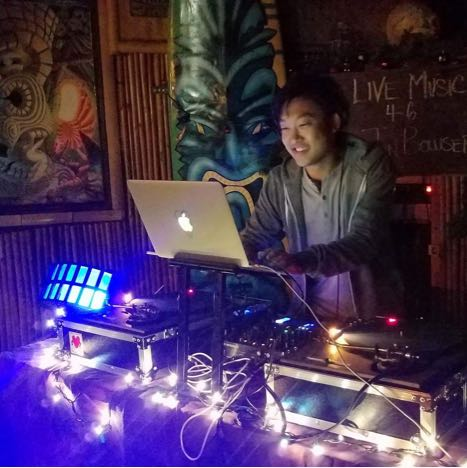
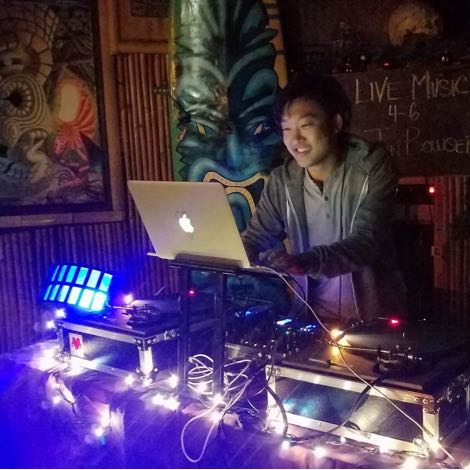
Polish
• optimized images for grid
• polish

diff --git a/_pages/slalom.html b/_pages/slalom.html
@@ -7,7 +7,7 @@ namespace: slalom
 
 <section class="case-study slalom">
     <!-- Intro -->
-    <div class="intro container">
+    <div id="intro" class="intro container">
         <div class="intro-blurb">
             <h1>Slalom Sales Enablement Tool</h1>
             <h4>October–December 2018</h4>
@@ -309,7 +309,7 @@ namespace: slalom
                 </div>
                 <div class="img-description">
                     <p class="img-title">Ability to present material casually on all devices</p>
-                    <h5 class="title-problem">The Problem</h5>
+                    <h5 class="title-problem">Background</h5>
                     <p>Imagine you are having an interesting conversation about solving a problem with someone at work
                         in
                         the parking lot. They happen to be a sales executive and next thing you know they are trying to
@@ -344,7 +344,7 @@ namespace: slalom
                 </div>
                 <div class="img-description">
                     <p class="img-title">Structure content and create navigation methods to dynamically tell stories</p>
-                    <h5 class="title-problem">The Problem</h5>
+                    <h5 class="title-problem">Background</h5>
                     <p>Sales executives had difficulty showcasing all the projects Slalom had completed for Google from
                         a
                         holistic standpoint. There was no formula to highlighting past work we’ve done with clients.
@@ -369,7 +369,7 @@ namespace: slalom
                 </div>
                 <div class="img-description">
                     <p class="img-title">Designing the core features to scale</p>
-                    <h5 class="title-problem">The Problem</h5>
+                    <h5 class="title-problem">Background</h5>
                     <p>
                         Google is just one of many clients. With the success of this project, there was a request to
                         potentially scale this tool to many users
@@ -423,7 +423,10 @@ namespace: slalom
                         into creating a scalable version of this tool. In the future, Slalom will be able to spin up
                         tailored web experiences for any one of our clients.
                     </p>
-                    <p>Thakns for reading! ✌</p>
+                    <p>Thanks for reading! ✌</p>
+                    <br>
+                    <!-- <a class="smooth-scroll" href="#intro">Back to project intro</a> <br> -->
+                    <a href="../">Back to home</a>
                 </div>
                 <span class="invisible"></span>
             </div>

diff --git a/_sass/_about.scss b/_sass/_about.scss
@@ -21,10 +21,9 @@ section.about {
 
 	a {
 		position: relative;
-		// display: flex;
 		transition: .33s ease all;
 		text-decoration: none;
-		padding: 0 2px 5px;
+		padding: 0 0 5px;
 	}
 
 	// Intro Section
@@ -49,25 +48,59 @@ section.about {
 
 		img {
 			width: 100%;
-			max-width: 470px;
+			// max-width: 470px;
 			margin: 0 auto;
 			grid-area: span 1 / span 1;
+		}
+
+		div.about-img {
+			position: relative;
+
+			div.overlay {
+				// Hide overlay
+				opacity: 0;
+				position: absolute;
+				top: 0;
+				bottom: 0;
+				left: 0;
+				right: 0;
+				height: 98.8%;
+				width: 100%;
+				transition: .33s ease;
+				background-color: rgba(#008CBA, .8);
+
+				div.about-caption {
+					color: white;
+					font-size: 20px;
+					position: absolute;
+					top: 50%;
+					left: 50%;
+					-webkit-transform: translate(-50%, -50%);
+					-ms-transform: translate(-50%, -50%);
+					transform: translate(-50%, -50%);
+					text-align: center;
+				}
+			}
+
+			div.overlay:hover {
+				// Show overlay
+				opacity: 1;
+			}
 		}
 	}
 
 }
 
-@media screen and (min-width: 600px){
+@media screen and (min-width: 500px){
 	section.about {
 		// Photo Grid
 		div.photo-grid {
-			grid-gap: 5px 10px;
+			grid-gap: 5px;
 			grid-template-columns: repeat(3, 1fr);
 			grid-template-rows: repeat(4, 1fr);
 
 			img {
 				width: 100%;
-				max-width: 470px;
 				margin: 0 auto;
 			}
 		}
@@ -81,28 +114,13 @@ section.about {
 		div.intro {
 			margin: 180px 0 180px;
 		}
-
-		div.work {
-			div.work-title {
-				h1 {
-					font-size: 24px;
-					margin-bottom: 15px;
-				}
-
-				a {
-					font-size: 16px;
-				}
-			}
-		}
 	}
 }
 
 @media screen and (min-width: 1024px) {
 	section.about {
-		div.work {
-			div.work-slab {
-				display: flex;
-			}
+		div.photo-grid {
+			grid-gap: 10px;
 		}
 	}
 }

diff --git a/index.html b/index.html
@@ -9,7 +9,7 @@ namespace: homepage
         <div class="intro">
             <div class="blurb">
                 <p>Yo! 👋</p>
-                <p>I’m Antonio, a <span class="underline orange">designer and developer</span> exploring the intersection between art and technology, on a mission to <span class="underline blue">humanize the digital world.</span></p>
+                <p>I’m Antonio. I'm a <span class="underline orange">designer and developer</span> exploring the intersection between art and technology, on a mission to <span class="underline blue">humanize the digital world.</span></p>
             </div>
         </div>
         <div class="work">
@@ -25,7 +25,7 @@ namespace: homepage
                 </div>
             </div>
             <div class="work-slab">
-                <div class="work-img">
+                <div class="work-img coming-soon">
                     <img src="/assets/imgs/work/device-xilinx-boards.png" alt="">
                 </div>
                 <div class="work-title">
@@ -34,7 +34,7 @@ namespace: homepage
                 </div>
             </div>
             <div class="work-slab">
-                <div class="work-img">
+                <div class="work-img coming-soon">
                     <img src="/assets/imgs/work/device-xilinx-training.png" alt="">
                 </div>
                 <div class="work-title">
@@ -43,7 +43,7 @@ namespace: homepage
                 </div>
             </div>
             <div class="work-slab">
-                <div class="work-img">
+                <div class="work-img coming-soon">
                     <img src="/assets/imgs/work/device-activision.png" alt="">
                 </div>
                 <div class="work-title">

diff --git a/_pages/about.html b/_pages/about.html
@@ -15,12 +15,27 @@ namespace: about
                 I studied computer science with an emphasis towards game design and I'm currently working at <a class="underline-blue" href="https://www.slalombuild.com/">Slalom</a> helping build digital experiences.
             </p>
             <p>
-                I love interactive experiences, storytelling, skateboarding, music, video games, teaching, learning, cooking and watching the sunset.
+                I love 
+                <span class="underline blue">interactive experiences</span>, 
+                <span class="underline ">storytelling</span>, 
+                <span class="underline ">skateboarding</span>, 
+                <span class="underline ">music</span>, 
+                <span class="underline ">video games</span>, 
+                <span class="underline ">learning</span>, 
+                <span class="underline ">teaching</span>, 
+                <span class="underline ">cooking</span>, and
+                <span class="underline orange">watching the sunset</span>.
             </p>
             <p>See you around! ✌</p>
         </div>
     </div>
     <div class="photo-grid">
+        <!-- <div class="about-img">
+            <img src="/assets/imgs/about/tampalais.jpg" alt="">
+            <div class="overlay">
+                <div class="about-caption">Mount Tamalpais</div>
+            </div>
+        </div> -->
         <img src="/assets/imgs/about/tampalais.jpg" alt="">
         <img src="/assets/imgs/about/rock-climbing.jpg" alt="">
         <img src="/assets/imgs/about/portrait.jpg" alt="">

diff --git a/_sass/_home.scss b/_sass/_home.scss
@@ -31,26 +31,6 @@ section.homepage {
 		max-width: 125px;
 	}
 
-	// Underline effect
-	.underline {
-		background-repeat: no-repeat;
-		background-size: 105% 15%;
-		background-position: 0 105%;
-		transition: background-size 0.25s ease-in;
-
-		&:hover {
-			background-size: 100% 40%;
-		}
-	}
-
-	.orange {
-		background-image: linear-gradient(120deg, #FFDEA8 0%, #FFDEA8 100%);
-	}
-
-	.blue {
-		background-image: linear-gradient(120deg, #CFE5FF 0%, #CFE5FF 100%);
-	}
-
 	// Intro Section
 	div.intro {
 		margin: 120px 0 120px;
@@ -68,6 +48,11 @@ section.homepage {
 
 		div.work-slab {
 			margin-bottom: 30px;
+		}
+
+		// Disable for projects not live
+		.coming-soon {
+			cursor: not-allowed;
 		}
 
 		div.work-title {
@@ -94,10 +79,6 @@ section.homepage {
 
 			a:hover {
 
-			}
-
-			a.coming-soon {
-				cursor: not-allowed;
 			}
 		}
 

diff --git a/assets/main.scss b/assets/main.scss
@@ -72,6 +72,33 @@ section.about {
 
 
 
+// Underline effect on homepage
+// Underline effect
+.underline {
+	background-repeat: no-repeat;
+	background-size: 105% 15%;
+	background-position: 0 105%;
+	transition: background-size 0.25s ease-in;
+
+	&:hover {
+		background-size: 100% 40%;
+	}
+}
+
+.orange {
+	background-image: linear-gradient(120deg, #FFDEA8 0%, #FFDEA8 100%);
+}
+
+.blue {
+	background-image: linear-gradient(120deg, #CFE5FF 0%, #CFE5FF 100%);
+}
+
+.green {
+	background-image: linear-gradient(120deg, rgb(78, 254, 163) 0%, rgb(78, 254, 163) 100%);
+}
+
+
+
 // Animations
 // Animation for scroll down
 @keyframes scrollDown {

diff --git a/_sass/_case-study.scss b/_sass/_case-study.scss
@@ -25,7 +25,7 @@ section.case-study {
     }
 
     h5.title-problem {
-        color: rgba(red,.8);
+        color: rgba(black,.8);
     }
 
     h5.title-solution {
